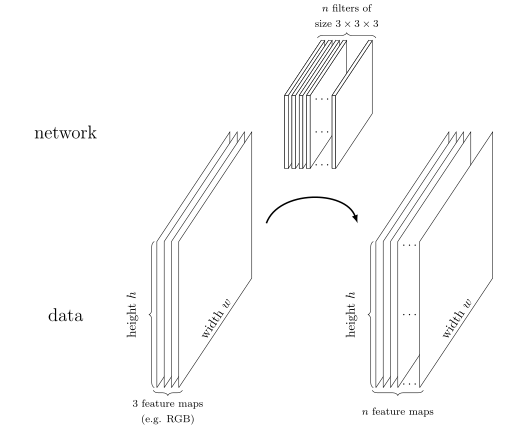
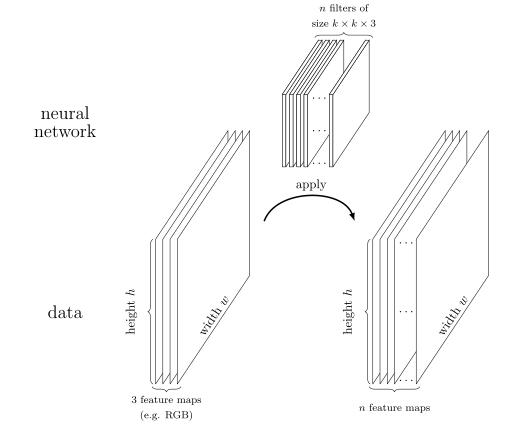
tikz/convolution-layer: Update

diff --git a/tikz/convolution-layer/convolution-layer.tex b/tikz/convolution-layer/convolution-layer.tex
@@ -5,55 +5,5 @@
 \usetikzlibrary{decorations.pathreplacing}
 
 \begin{document}
-\newcommand{\distance}{6}
-\newcommand{\xup}{3.5}
-\newcommand{\yup}{6}
-\newcommand{\upsizex}{1}
-\newcommand{\upsizey}{2}
-\newcommand{\upshift}{3/4*\upsizey}
-\newcommand{\distancedots}{1}
-
-\begin{tikzpicture}
-    % Print input feature maps
-    \foreach \i in {0, 0.2, ..., 0.6} {
-        \draw[fill=white] (0+\i, 0) -- (2+\i, 3) -- (2+\i, 7) -- (\i, 4) -- (\i, 0);
-    }
-
-    % Print filters
-    \foreach \i in {0, 0.2, ..., 0.6, 1.3} {
-        \draw[fill=white] (\xup+\i, \yup) -- (\xup+\upsizex+\i, \yup+\upshift) -- (\xup+\upsizex+\i, \yup+\upsizey+\upshift) -- (\xup+\i, \yup+\upsizey) -- (\xup+\i, \yup);
-        \draw[fill=white] (\xup+\i, \yup) -- (\xup+\i+0.1, \yup) -- (\xup+\i+0.1, \yup+\upsizey) -- (\xup+\i, \yup+\upsizey) -- (\xup+\i, \yup);
-        \draw[fill=white] (\xup+\i+0.1, \yup) -- (\xup+\upsizex+\i+0.1, \yup+\upshift) -- (\xup+\upsizex+\i+0.1, \yup+\upsizey+\upshift) -- (\xup+\i+0.1, \yup+\upsizey) -- (\xup+\i+0.1, \yup);
-        \draw[fill=white] (\xup+\i, \yup+\upsizey) -- (\xup+\i+0.1, \yup+\upsizey) -- (\xup+\upsizex+\i+0.1, \yup+\upsizey+\upshift) -- (\xup+\upsizex+\i, \yup+\upsizey+\upshift) -- (\xup+\i, \yup+\upsizey);
-    }
-
-    \foreach \i in {0, 0.2, ..., 0.6, 1.2} {
-        \draw[fill=white] (\distance+\i, 0) -- (\distance+2+\i, 3) -- (\distance+2+\i, 7) -- (\distance+\i, 4) -- (\distance+\i, 0);
-    }
-
-    \draw [decorate,decoration={brace,amplitude=+4pt,mirror},xshift=0pt,yshift=-2pt]
-(-0.1,0) -- (0.7,0) node [black,midway,yshift=-0.6cm, align=center] {\footnotesize$3$ feature maps\\\footnotesize(e.g. RGB)};
-    \draw [decorate,decoration={brace,amplitude=+4pt,mirror},xshift=0pt,yshift=-2pt]
-(\distance-0.1,0) -- (\distance+1.3,0) node [black,midway,yshift=-0.6cm, align=center] {\footnotesize$n$ feature maps};
-    \draw [decorate,decoration={brace,amplitude=+4pt},xshift=0pt,yshift=+2pt]
-(\xup-0.1+\upsizex,\yup+\upsizey+\upshift) -- (\xup+1.5+\upsizex,\yup+\upsizey+\upshift) node [black,midway,yshift=+0.6cm, align=center] {\footnotesize $n$ filters of\\\footnotesize size $3\times 3 \times 3$};
-    \draw[very thick, ->,>=latex] (3, 4.5) [out=70, in=110] to  (\distance-0.5, 4.5);
-    \draw [color=white,decorate,decoration={brace,amplitude=+4pt, mirror},xshift=0pt,yshift=+2pt]
-(1.1, 0) -- (3.1, 3) node [sloped,black,midway,yshift=+0.6cm, align=center] {width $w$};
-    \draw [color=white,decorate,decoration={brace,amplitude=+4pt, mirror},xshift=0pt,yshift=+2pt]
-(\distance+1.7, 0) -- (\distance+3.7, 3) node [sloped,black,midway,yshift=+0.6cm, align=center] {width $w$};
-    \draw [decorate,decoration={brace,amplitude=+4pt},xshift=-2pt,yshift=0pt]
-(0, 0) -- (0, 4) node [sloped,black,midway,yshift=+0.6cm, align=center] {height $h$};
-    \draw [decorate,decoration={brace,amplitude=+4pt},xshift=-2pt,yshift=0pt]
-(\distance, 0) -- (\distance, 4) node [sloped,black,midway,yshift=+0.6cm, align=center] {height $h$};
-    \node at (-2.5,7) {\Large network};
-    \node at (-2.5,2) {\Large data};
-    \node at (\distance+0.95,3.9) {\dots};
-    \node at (\distance+0.95,2) {\dots};
-    \node at (\distance+0.95,0.1) {\dots};
-
-    \node at (\xup+1.05,\yup+1.9) {\dots};
-    \node at (\xup+1.05,\yup+1.0) {\dots};
-    \node at (\xup+1.05,\yup+0.1) {\dots};
-\end{tikzpicture}
+\input{conv-layer}
 \end{document}

diff --git a/tikz/convolution-layer/conv-layer.tex b/tikz/convolution-layer/conv-layer.tex
@@ -1,0 +1,54 @@
+\newcommand{\distance}{6}
+\newcommand{\xup}{3.5}
+\newcommand{\yup}{6}
+\newcommand{\upsizex}{1}
+\newcommand{\upsizey}{2}
+\newcommand{\upshift}{3/4*\upsizey}
+\newcommand{\distancedots}{1}
+
+\begin{tikzpicture}
+    % Print input feature maps
+    \foreach \i in {0, 0.2, ..., 0.6} {
+        \draw[fill=white] (0+\i, 0) -- (2+\i, 3) -- (2+\i, 7) -- (\i, 4) -- (\i, 0);
+    }
+
+    % Print filters
+    \foreach \i in {0, 0.2, ..., 0.6, 1.3} {
+        \draw[fill=white] (\xup+\i, \yup) -- (\xup+\upsizex+\i, \yup+\upshift) -- (\xup+\upsizex+\i, \yup+\upsizey+\upshift) -- (\xup+\i, \yup+\upsizey) -- (\xup+\i, \yup);
+        \draw[fill=white] (\xup+\i, \yup) -- (\xup+\i+0.1, \yup) -- (\xup+\i+0.1, \yup+\upsizey) -- (\xup+\i, \yup+\upsizey) -- (\xup+\i, \yup);
+        \draw[fill=white] (\xup+\i+0.1, \yup) -- (\xup+\upsizex+\i+0.1, \yup+\upshift) -- (\xup+\upsizex+\i+0.1, \yup+\upsizey+\upshift) -- (\xup+\i+0.1, \yup+\upsizey) -- (\xup+\i+0.1, \yup);
+        \draw[fill=white] (\xup+\i, \yup+\upsizey) -- (\xup+\i+0.1, \yup+\upsizey) -- (\xup+\upsizex+\i+0.1, \yup+\upsizey+\upshift) -- (\xup+\upsizex+\i, \yup+\upsizey+\upshift) -- (\xup+\i, \yup+\upsizey);
+    }
+
+    \foreach \i in {0, 0.2, ..., 0.6, 1.2} {
+        \draw[fill=white] (\distance+\i, 0) -- (\distance+2+\i, 3) -- (\distance+2+\i, 7) -- (\distance+\i, 4) -- (\distance+\i, 0);
+    }
+
+    \draw [decorate,decoration={brace,amplitude=+4pt,mirror},xshift=0pt,yshift=-2pt]
+(-0.1,0) -- (0.7,0) node [black,midway,yshift=-0.6cm, align=center] {\footnotesize$3$ feature maps\\\footnotesize(e.g. RGB)};
+    \draw [decorate,decoration={brace,amplitude=+4pt,mirror},xshift=0pt,yshift=-2pt]
+(\distance-0.1,0) -- (\distance+1.3,0) node [black,midway,yshift=-0.6cm, align=center] {\footnotesize$n$ feature maps};
+    \draw [decorate,decoration={brace,amplitude=+4pt},xshift=0pt,yshift=+2pt]
+(\xup-0.1+\upsizex,\yup+\upsizey+\upshift) -- (\xup+1.5+\upsizex,\yup+\upsizey+\upshift) node [black,midway,yshift=+0.6cm, align=center] {\footnotesize $n$ filters of\\\footnotesize size $k \times k \times 3$};
+    \draw[very thick, ->,>=latex] (3, 4.5) [out=70, in=110] to  (\distance-0.5, 4.5);
+    \draw [color=white,decorate,decoration={brace,amplitude=+4pt, mirror},xshift=0pt,yshift=+2pt]
+(1.1, 0) -- (3.1, 3) node [sloped,black,midway,yshift=+0.6cm, align=center] {width $w$};
+    \draw [color=white,decorate,decoration={brace,amplitude=+4pt, mirror},xshift=0pt,yshift=+2pt]
+(\distance+1.7, 0) -- (\distance+3.7, 3) node [sloped,black,midway,yshift=+0.6cm, align=center] {width $w$};
+    \draw [decorate,decoration={brace,amplitude=+4pt},xshift=-2pt,yshift=0pt]
+(0, 0) -- (0, 4) node [sloped,black,midway,yshift=+0.6cm, align=center] {height $h$};
+    \draw [decorate,decoration={brace,amplitude=+4pt},xshift=-2pt,yshift=0pt]
+(\distance, 0) -- (\distance, 4) node [sloped,black,midway,yshift=+0.6cm, align=center] {height $h$};
+    \node at (-2.5,7.5) {\Large neural};
+    \node at (-2.5,7) {\Large network};
+    \node at (-2.5,2) {\Large data};
+
+    \node at (+4.3,5.5) {apply};
+    \node at (\distance+0.95,3.9) {\dots};
+    \node at (\distance+0.95,2) {\dots};
+    \node at (\distance+0.95,0.1) {\dots};
+
+    \node at (\xup+1.05,\yup+1.9) {\dots};
+    \node at (\xup+1.05,\yup+1.0) {\dots};
+    \node at (\xup+1.05,\yup+0.1) {\dots};
+\end{tikzpicture}
